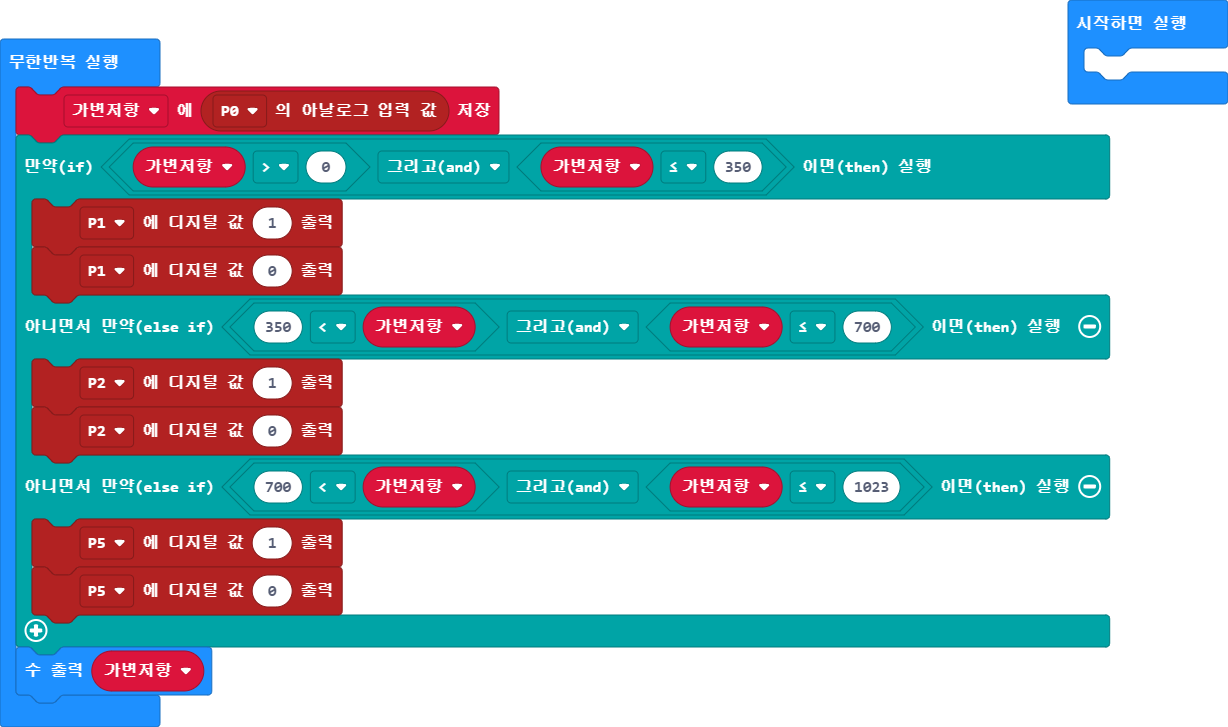
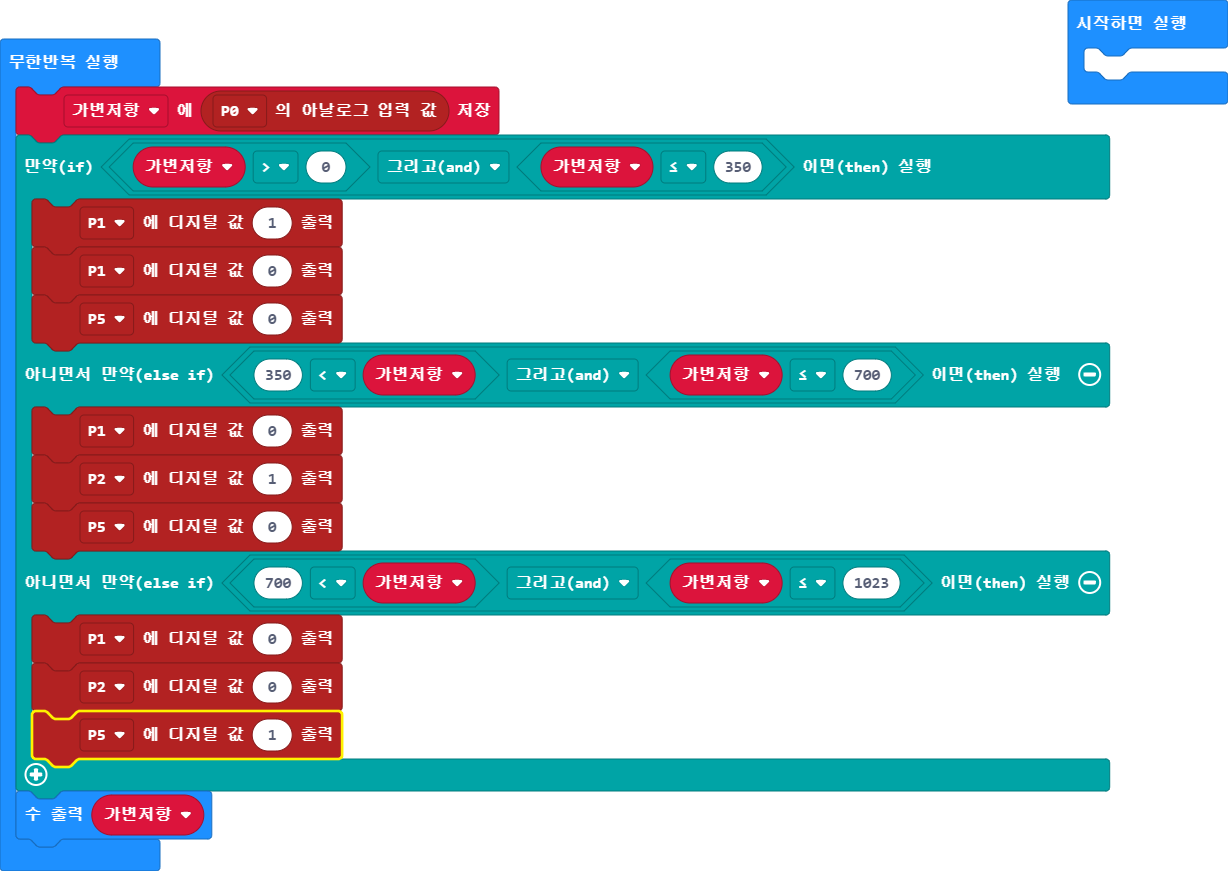
가변저항 오징어

Changed region(s): [[0.0, 0.0, 1.0, 0.9684]]

diff --git a/main.ts b/main.ts
@@ -4,12 +4,15 @@ basic.forever(function () {
     if (가변저항 > 0 && 가변저항 <= 350) {
         pins.digitalWritePin(DigitalPin.P1, 1)
         pins.digitalWritePin(DigitalPin.P1, 0)
-    } else if (350 < 가변저항 && 가변저항 <= 700) {
-        pins.digitalWritePin(DigitalPin.P2, 1)
-        pins.digitalWritePin(DigitalPin.P2, 0)
-    } else if (700 < 가변저항 && 가변저항 <= 1023) {
-        pins.digitalWritePin(DigitalPin.P5, 1)
         pins.digitalWritePin(DigitalPin.P5, 0)
+    } else if (350 < 가변저항 && 가변저항 <= 700) {
+        pins.digitalWritePin(DigitalPin.P1, 0)
+        pins.digitalWritePin(DigitalPin.P2, 1)
+        pins.digitalWritePin(DigitalPin.P5, 0)
+    } else if (700 < 가변저항 && 가변저항 <= 1023) {
+        pins.digitalWritePin(DigitalPin.P1, 0)
+        pins.digitalWritePin(DigitalPin.P2, 0)
+        pins.digitalWritePin(DigitalPin.P5, 1)
     }
     basic.showNumber(가변저항)
 })
